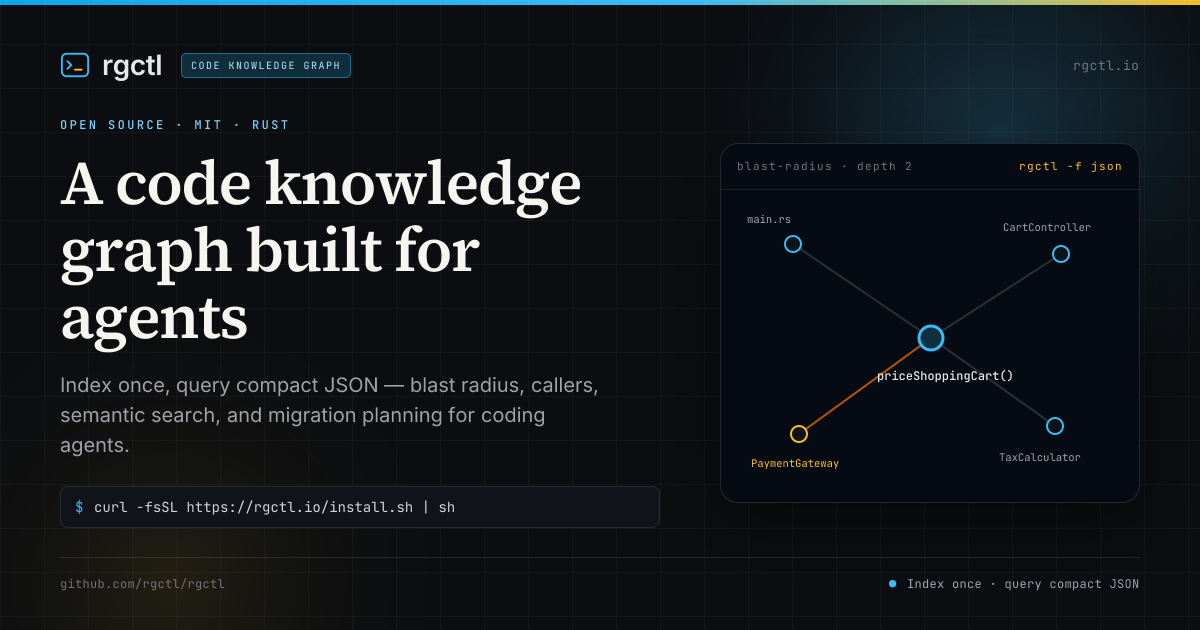
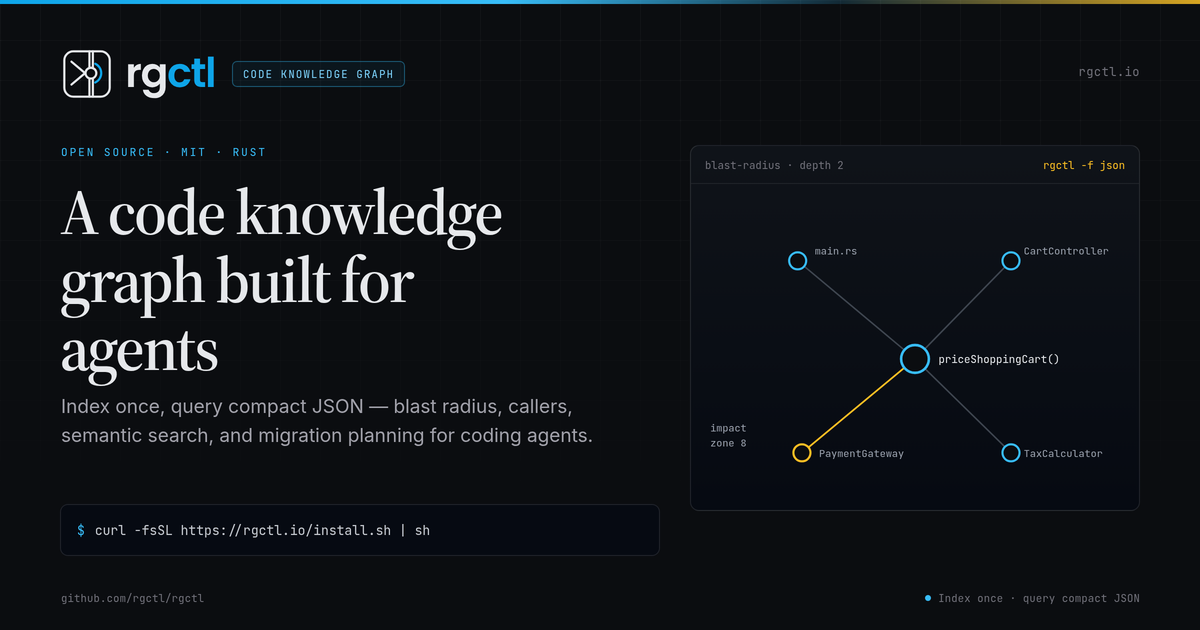
update og and add linkedin image

diff --git a/DESIGN.md b/DESIGN.md
@@ -370,10 +370,13 @@ mark stays legible at 16–32 px; the Apple touch icon is an opaque square so iO
 can apply its own mask. Download copies live in `public/brand/`.
 
 ### Social Card
-`public/og/default.png` is the 1200×630 dark social card (brand mark, terminal
-graph, install command, and `rgctl.io` URL). Page-level Open Graph and Twitter
-metadata is composed in `src/lib/seo.ts`; docs and guide pages use their own
-titles and descriptions while sharing the card.
+`public/og/default.png` is the 1200×630 dark social card built around the current
+icon-and-wordmark lockup, the blast-radius graph, the install command, and the
+`rgctl.io` URL. `public/og/linkedin-banner.png` (1128×191) applies the same visual
+system to the LinkedIn Page cover; `public/og/linkedin-banner-2x.png` is the
+2256×382 high-DPI version. Page-level Open Graph and Twitter metadata is composed
+in `src/lib/seo.ts`; docs and guide pages use their own titles and descriptions
+while sharing the card.
 
 ## Layout
 
